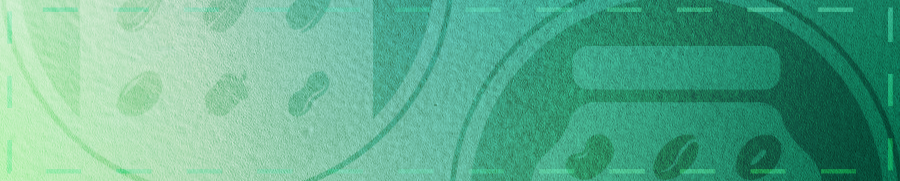
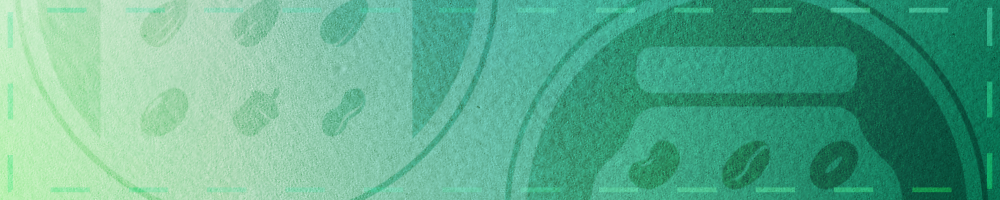
Page fermier/gérant

diff --git a/Look/style_fermier.css b/Look/style_fermier.css
@@ -1,6 +1,6 @@
 
 body{
-  background: linear-gradient(to bottom left, #0b3d2f, #10b283);
+  background: linear-gradient(to bottom left, #700010, #f199ac);
   font-family:Arial, Helvetica, sans-serif;
   font-size:15px;
 }
@@ -11,13 +11,13 @@ body{
   height: auto;
   margin:auto;
   background-color:#FFFFFF;
-  box-shadow: 5px 5px #0b3d2f;
+  box-shadow: 5px 5px #350005;
 }
 
 #header{
   width:1000px;
   height:200px;
-  background:url(images/header.png) no-repeat center;
+  background:url(images/header_fermier.png) no-repeat center;
 }
 
 #logo{
@@ -51,12 +51,12 @@ background:url(images/menu_bg.png);
 #content{
   padding : 20px 50px;
   text-align: center;
-  color: #0b3d2f;
+  color: #2C0009;
 }
 
 h2{
   text-align: center;
-  color: #0b3d2f;
+  color: #2C0009;
 }
 
 table{

diff --git a/Look/style_gerant.css b/Look/style_gerant.css
@@ -1,6 +1,6 @@
 
 body{
-  background: linear-gradient(to bottom left, #0b3d2f, #10b283);
+  background: linear-gradient(to bottom left, #003366, #1083b2);
   font-family:Arial, Helvetica, sans-serif;
   font-size:15px;
 }
@@ -17,7 +17,7 @@ body{
 #header{
   width:1000px;
   height:200px;
-  background:url(images/header.png) no-repeat center;
+  background:url(images/header_gerant.png) no-repeat center;
 }
 
 #logo{
@@ -51,12 +51,12 @@ background:url(images/menu_bg.png);
 #content{
   padding : 20px 50px;
   text-align: center;
-  color: #0b3d2f;
+  color: #0b2f5d;
 }
 
 h2{
   text-align: center;
-  color: #0b3d2f;
+  color: #0b2f5d;
 }
 
 table{

diff --git a/View/v_g_product.php b/View/v_g_product.php
@@ -3,7 +3,7 @@
   <head>
     <title>Emballé-pesé</title>
     <meta http-equiv="Content-Type" content="text/html" charset="utf-8" />
-    <link rel="stylesheet" type="text/css" href="../Look/style.css" />
+    <link rel="stylesheet" type="text/css" href="../Look/style_gerant.css" />
   </head>
   <body>
     <div id="main">
@@ -55,7 +55,10 @@ for($i=0;$i<count($tab);$i++){
         </br>
         <form action="../Controller/c_g_modify_product.php">
           <button> Modifier vos produits </button>
-		</form>
+		</form> <br><br>
+    <form action="../Controller/c_g_add_product.php">
+          <button> Ajouter des produits </button>
+        </form>
       </div>
     </div>
   </body>

diff --git a/View/v_g_label.php b/View/v_g_label.php
@@ -3,7 +3,7 @@
   <head>
     <title>Emball�-pes�</title>
     <meta http-equiv="Content-Type" content="text/html" charset="utf-8" />
-    <link rel="stylesheet" type="text/css" href="../Look/style.css" />
+    <link rel="stylesheet" type="text/css" href="../Look/style_gerant.css" />
   </head>
   <body>
     <div id="main">

diff --git a/View/v_f_account.php b/View/v_f_account.php
@@ -3,7 +3,7 @@
   <head>
     <title>Emballé-pesé</title>
     <meta http-equiv="Content-Type" content="text/html" charset="utf-8" />
-    <link rel="stylesheet" type="text/css" href="../Look/style.css" />
+    <link rel="stylesheet" type="text/css" href="../Look/style_fermier.css" />
   </head>
   <body>
     <div id="main">

diff --git a/View/v_f_article.php b/View/v_f_article.php
@@ -3,7 +3,7 @@
   <head>
     <title>Emballé-pesé</title>
     <meta http-equiv="Content-Type" content="text/html" charset="utf-8" />
-    <link rel="stylesheet" type="text/css" href="../Look/style.css" />
+    <link rel="stylesheet" type="text/css" href="../Look/style_fermier.css" />
   </head>
   <body>
     <div id="main">

diff --git a/View/v_f_ownp.php b/View/v_f_ownp.php
@@ -3,7 +3,7 @@
   <head>
     <title>Emballé-pesé</title>
     <meta http-equiv="Content-Type" content="text/html" charset="utf-8" />
-    <link rel="stylesheet" type="text/css" href="../Look/style.css" />
+    <link rel="stylesheet" type="text/css" href="../Look/style_fermier.css" />
   </head>
   <body>
     <div id="main">

diff --git a/View/v_g_account.php b/View/v_g_account.php
@@ -3,7 +3,7 @@
   <head>
     <title>Emballé-pesé</title>
     <meta http-equiv="Content-Type" content="text/html" charset="utf-8" />
-    <link rel="stylesheet" type="text/css" href="../Look/style.css" />
+    <link rel="stylesheet" type="text/css" href="../Look/style_gerant.css" />
   </head>
   <body>
     <div id="main">

diff --git a/View/v_g_add_product.php b/View/v_g_add_product.php
@@ -3,7 +3,7 @@
   <head>
     <title>Emballé-pesé</title>
     <meta http-equiv="Content-Type" content="text/html" charset="utf-8" />
-    <link rel="stylesheet" type="text/css" href="../Look/style.css" />
+    <link rel="stylesheet" type="text/css" href="../Look/style_gerant.css" />
   </head>
   <body>
     <div id="main">

diff --git a/View/v_g_articles.php b/View/v_g_articles.php
@@ -3,7 +3,7 @@
   <head>
     <title>Emballé-pesé</title>
     <meta http-equiv="Content-Type" content="text/html" charset="utf-8" />
-    <link rel="stylesheet" type="text/css" href="../Look/style.css" />
+    <link rel="stylesheet" type="text/css" href="../Look/style_gerant.css" />
   </head>
   <body>
     <div id="main">

diff --git a/View/v_g_ban.php b/View/v_g_ban.php
@@ -3,7 +3,7 @@
   <head>
     <title>Emballé-pesé</title>
     <meta http-equiv="Content-Type" content="text/html" charset="utf-8" />
-    <link rel="stylesheet" type="text/css" href="../Look/style.css" />
+    <link rel="stylesheet" type="text/css" href="../Look/style_gerant.css" />
   </head>
   <body>
     <div id="main">

diff --git a/View/v_g_basket.php b/View/v_g_basket.php
@@ -3,7 +3,7 @@
   <head>
     <title>Emballé-pesé</title>
     <meta http-equiv="Content-Type" content="text/html" charset="utf-8" />
-    <link rel="stylesheet" type="text/css" href="../Look/style.css" />
+    <link rel="stylesheet" type="text/css" href="../Look/style_gerant.css" />
   </head>
   <body>
     <div id="main">
